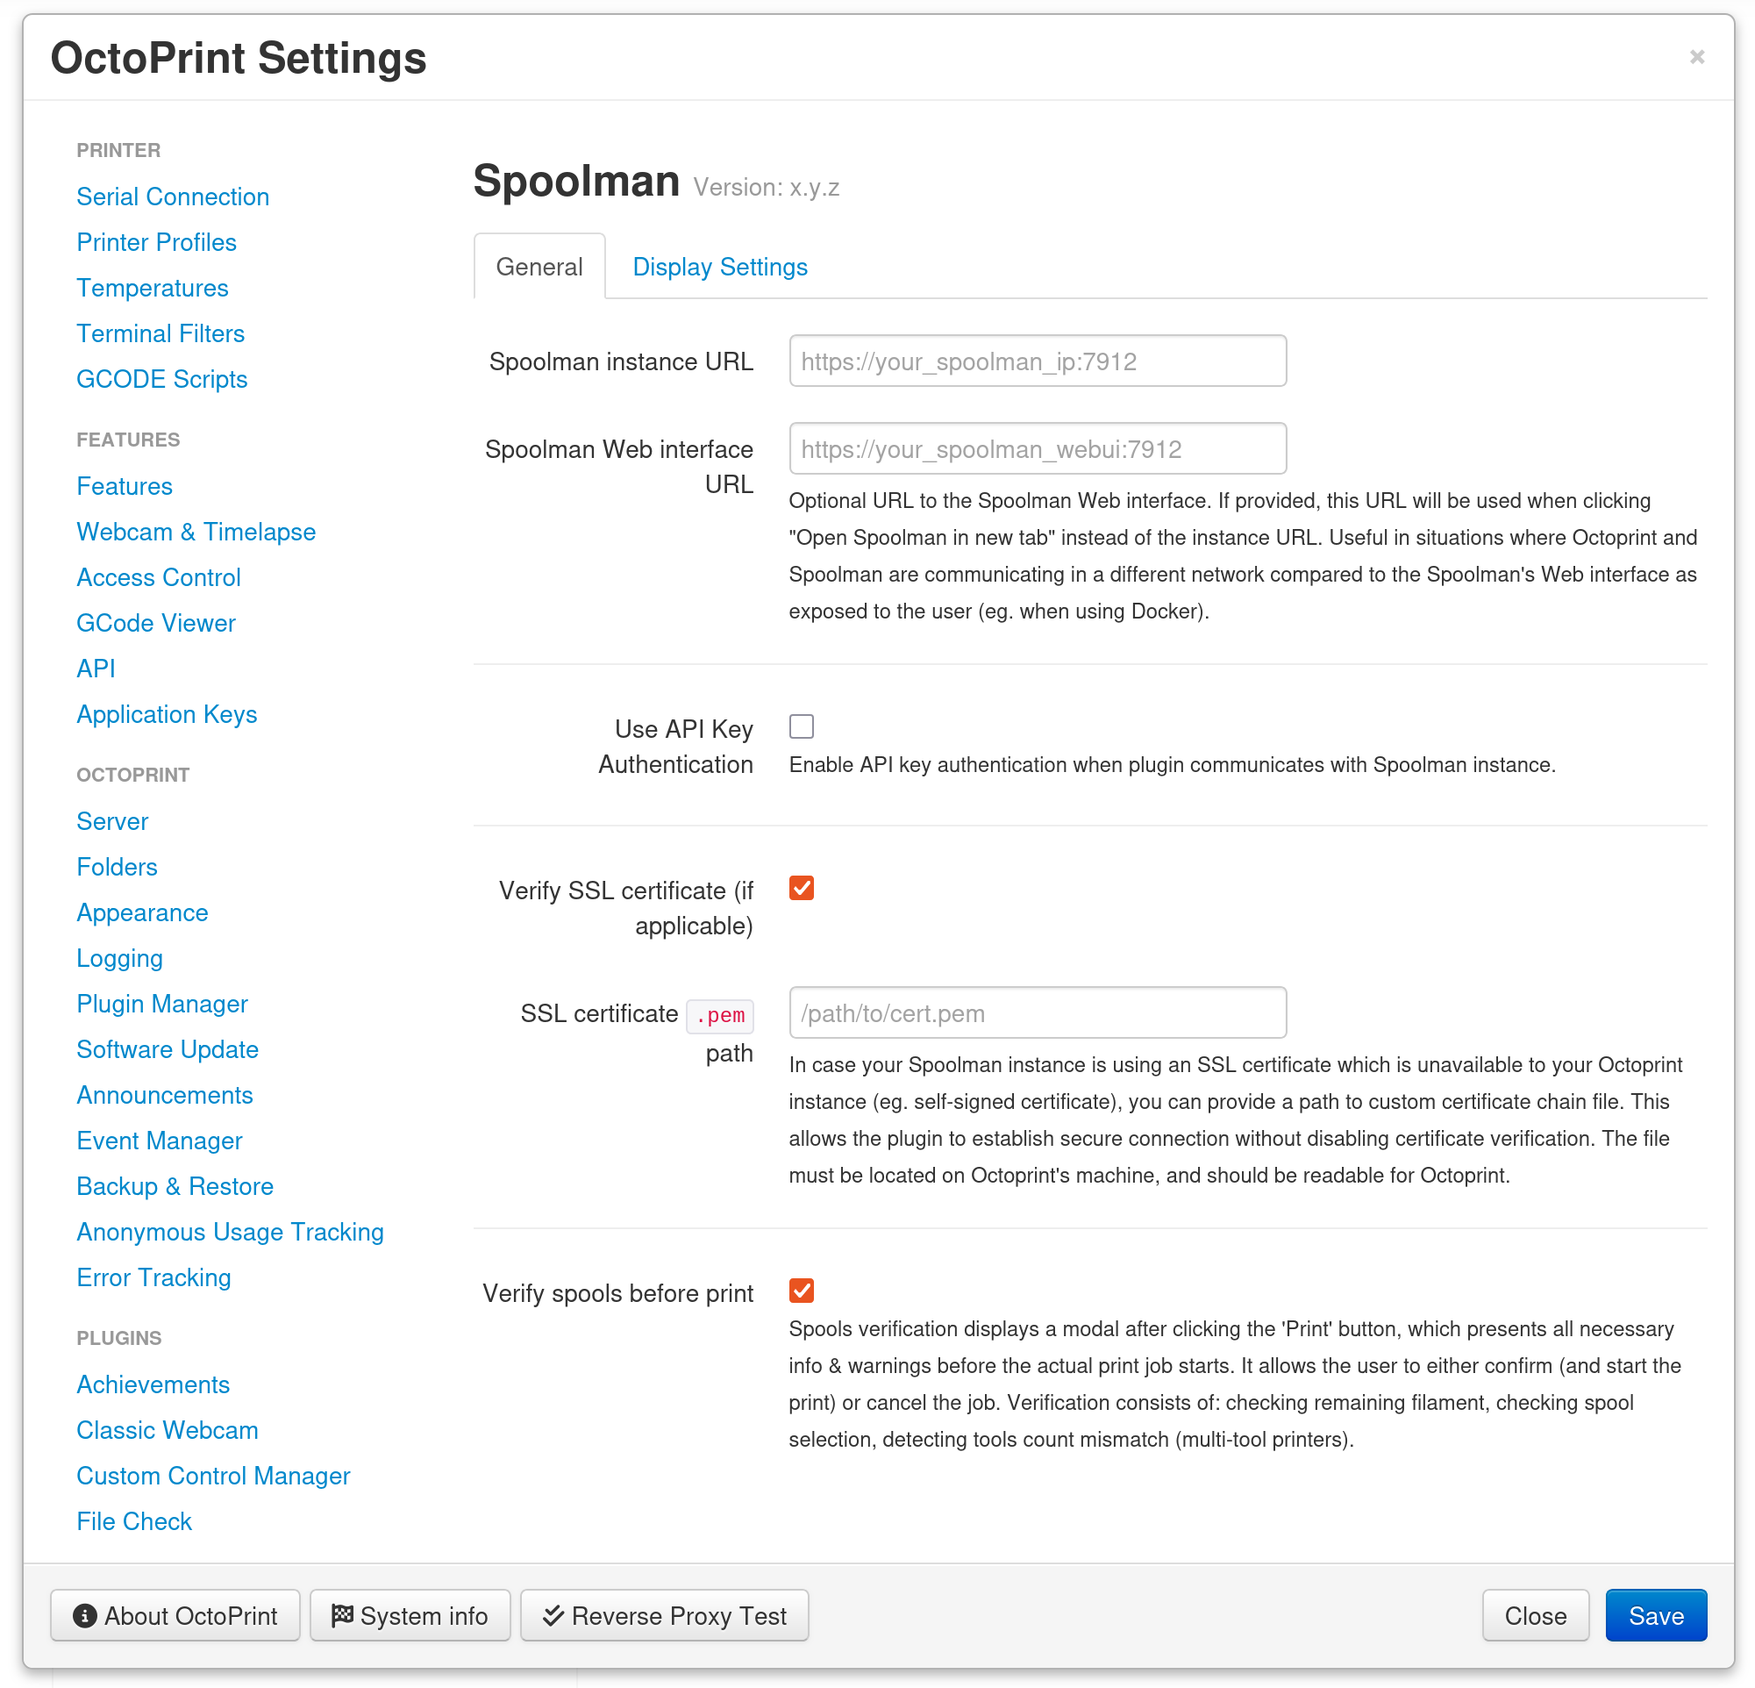
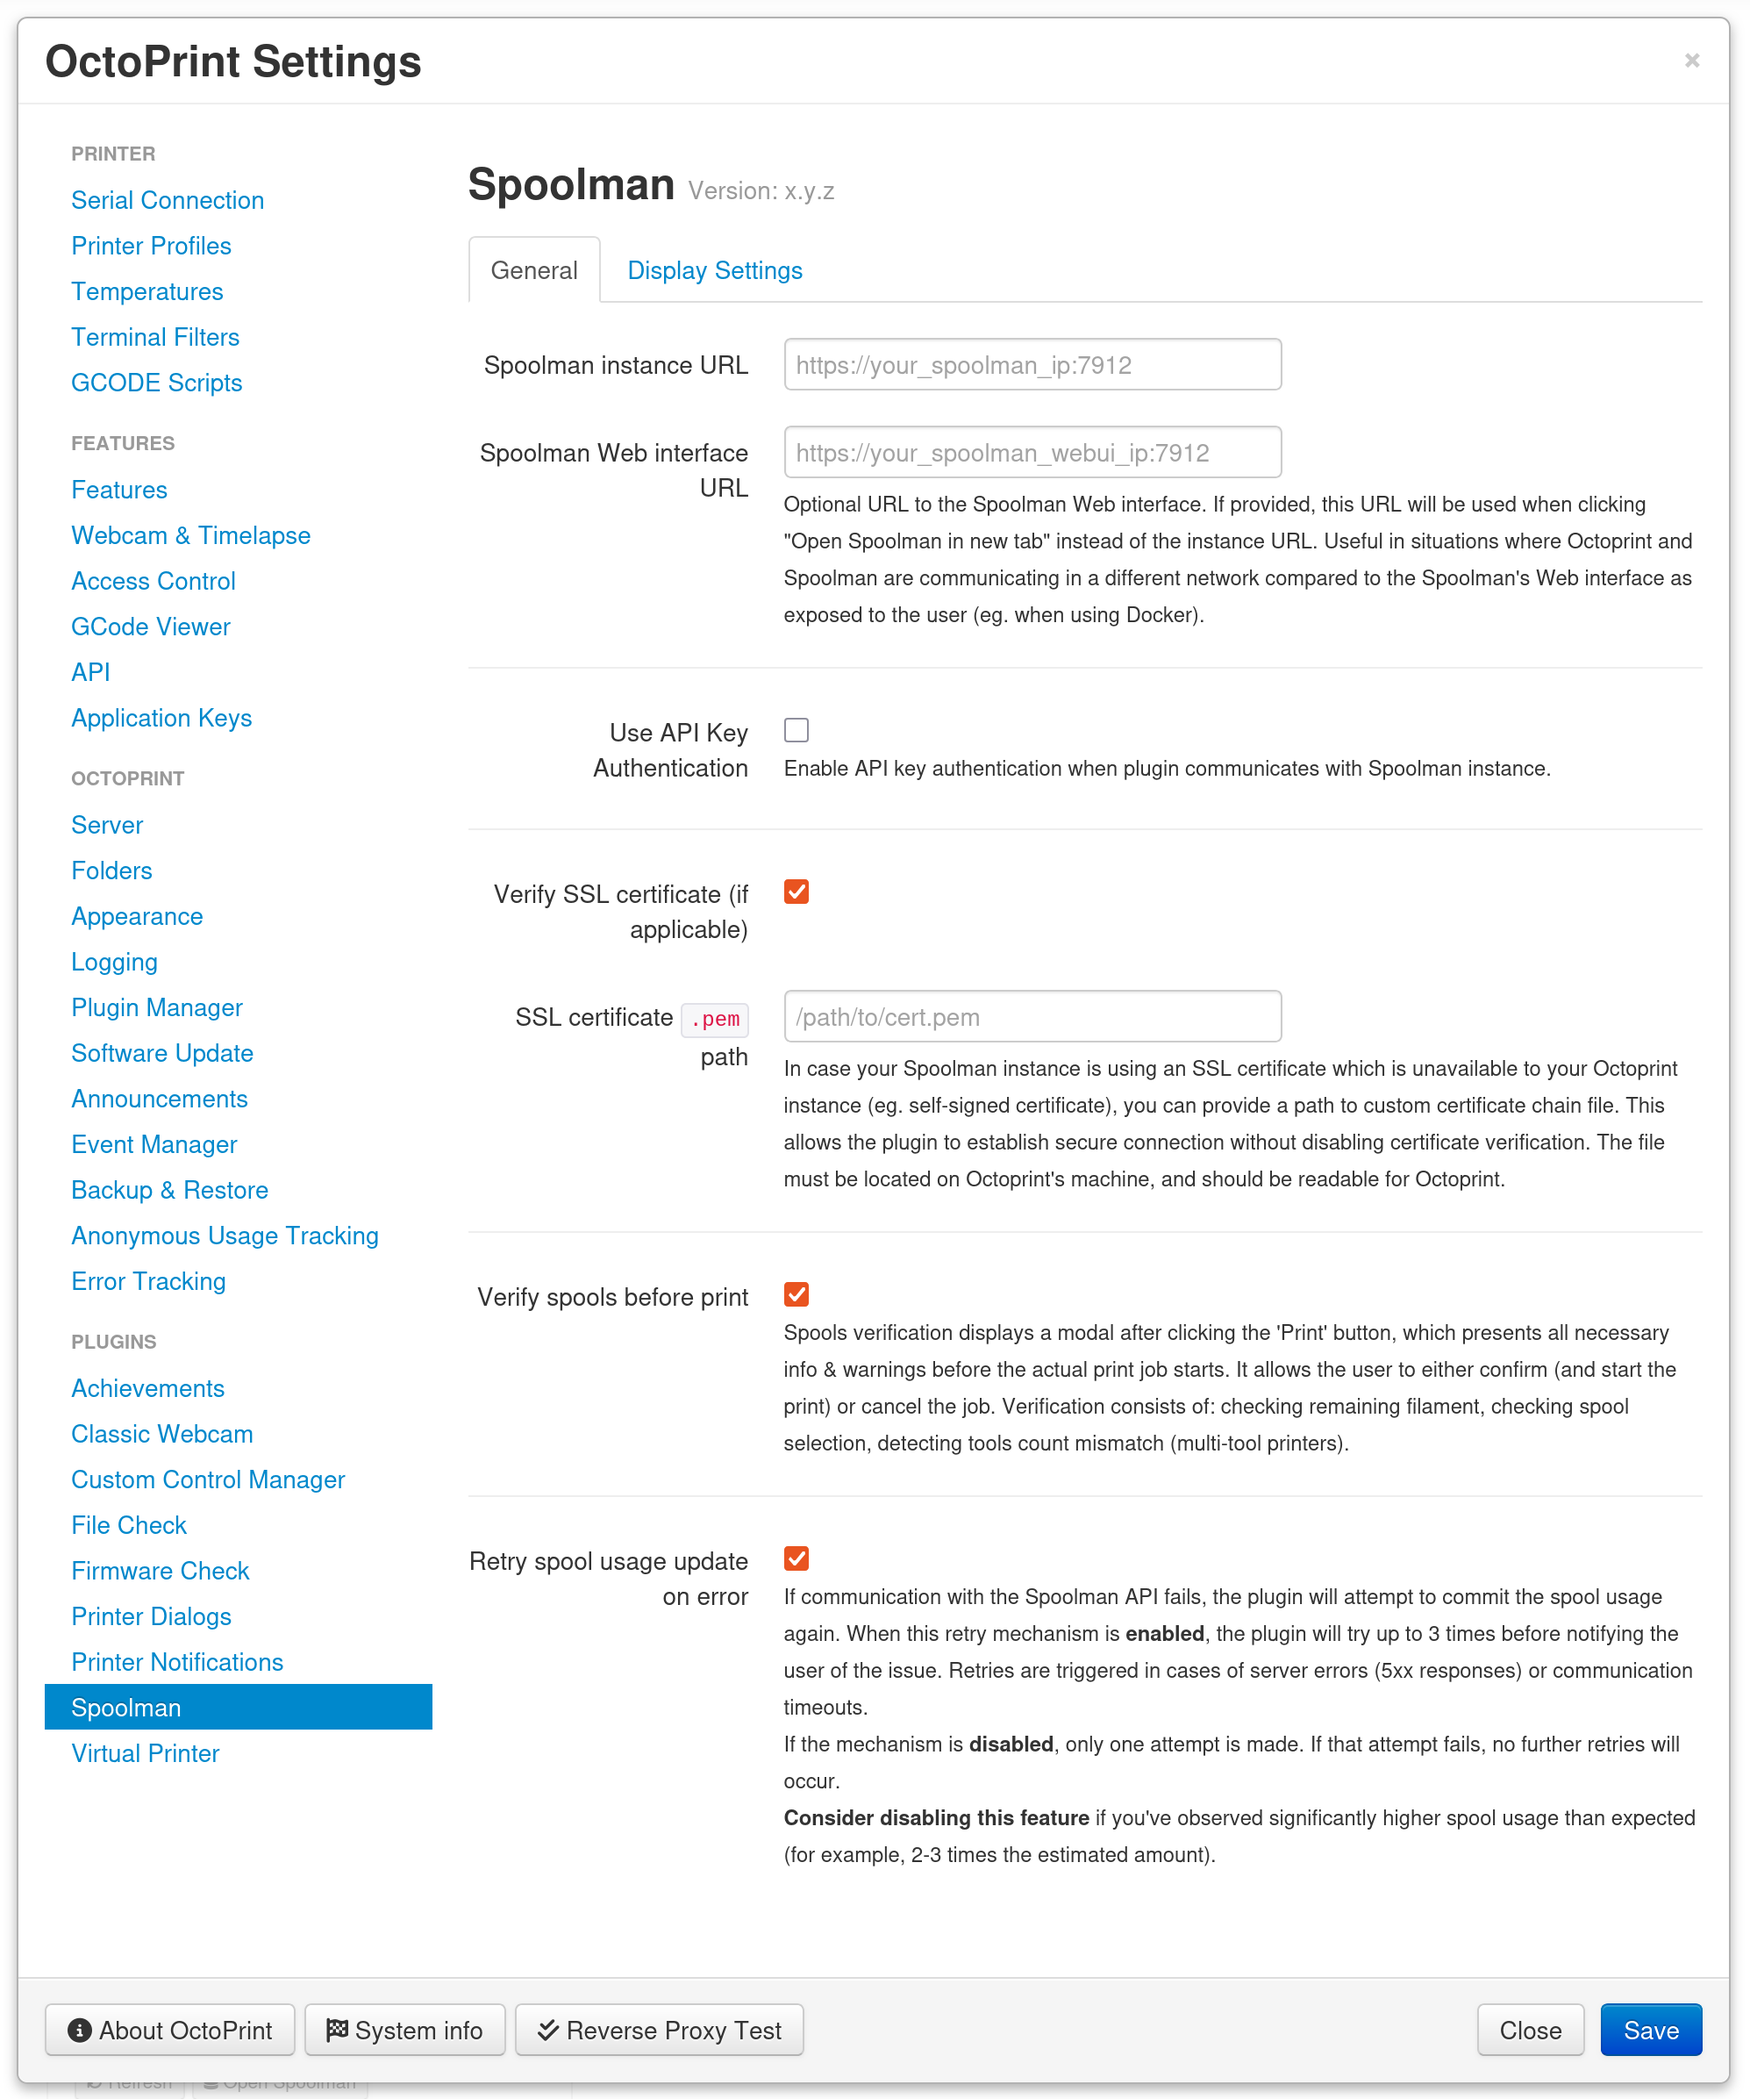
feat: Make it possible to disable retry logic

diff --git a/octoprint_Spoolman/SpoolmanPlugin.py b/octoprint_Spoolman/SpoolmanPlugin.py
@@ -45,6 +45,7 @@ class SpoolmanPlugin(
         isSpoolmanApiKeyEnabled = self._settings.get([ SettingsKeys.IS_SPOOLMAN_API_KEY_ENABLED ])
         spoolmanApiKeyHeader = self._settings.get([ SettingsKeys.SPOOLMAN_API_KEY_HEADER ]) if isSpoolmanApiKeyEnabled else None
         spoolmanApiKey = self._settings.get([ SettingsKeys.SPOOLMAN_API_KEY ]) if isSpoolmanApiKeyEnabled else None
+        isUseRequestRetryLogicEnabled = self._settings.get([ SettingsKeys.IS_USE_REQUEST_RETRY_LOGIC_ENABLED ])
 
         return SpoolmanConnector(
             instanceUrl = spoolmanInstanceUrl,
@@ -52,6 +53,7 @@ class SpoolmanPlugin(
             verifyConfig = verifyConfig,
             apiKeyHeader = spoolmanApiKeyHeader,
             apiKey = spoolmanApiKey,
+            isRetryLogicEnabled = isUseRequestRetryLogicEnabled,
         )
 
     def triggerPluginEvent(self, eventType, eventPayload = {}):
@@ -140,6 +142,7 @@ class SpoolmanPlugin(
             SettingsKeys.IS_SPOOLMAN_API_KEY_ENABLED: False,
             SettingsKeys.SPOOLMAN_API_KEY_HEADER: "",
             SettingsKeys.SPOOLMAN_API_KEY: "",
+            SettingsKeys.IS_USE_REQUEST_RETRY_LOGIC_ENABLED: True,
         }
 
         return settings

diff --git a/octoprint_Spoolman/modules/SpoolmanConnector.py b/octoprint_Spoolman/modules/SpoolmanConnector.py
@@ -5,12 +5,13 @@ import requests
 from requests.adapters import HTTPAdapter, Retry
 
 class SpoolmanConnector():
-    def __init__(self, instanceUrl, logger, verifyConfig, apiKeyHeader = None, apiKey = None):
+    def __init__(self, instanceUrl, logger, verifyConfig, apiKeyHeader = None, apiKey = None, isRetryLogicEnabled = True):
         self.instanceUrl = self._cleanupInstanceUrl(instanceUrl)
         self._logger = logger
         self.verifyConfig = verifyConfig
         self.apiKeyHeader = apiKeyHeader
         self.apiKey = apiKey
+        self.isRetryLogicEnabled = isRetryLogicEnabled
 
     def _cleanupInstanceUrl(self, value):
         trailingSlash = "/"
@@ -155,8 +156,10 @@ class SpoolmanConnector():
                         self.total
                     )
 
+        retryCount = 1 if not self.isRetryLogicEnabled else 3
+
         retries = RetryWithLogger(
-            total = 3,
+            total = retryCount,
             backoff_factor = 1,
             status_forcelist = [ 500, 502, 503, 504 ]
         )

diff --git a/octoprint_Spoolman/common/settings.py b/octoprint_Spoolman/common/settings.py
@@ -16,3 +16,4 @@ class SettingsKeys():
 	IS_SPOOLMAN_API_KEY_ENABLED = "isSpoolmanApiKeyEnabled"
 	SPOOLMAN_API_KEY_HEADER = "spoolmanApiKeyHeader"
 	SPOOLMAN_API_KEY = "spoolmanApiKey"
+	IS_USE_REQUEST_RETRY_LOGIC_ENABLED = "isUseRequestRetryLogicEnabled"
